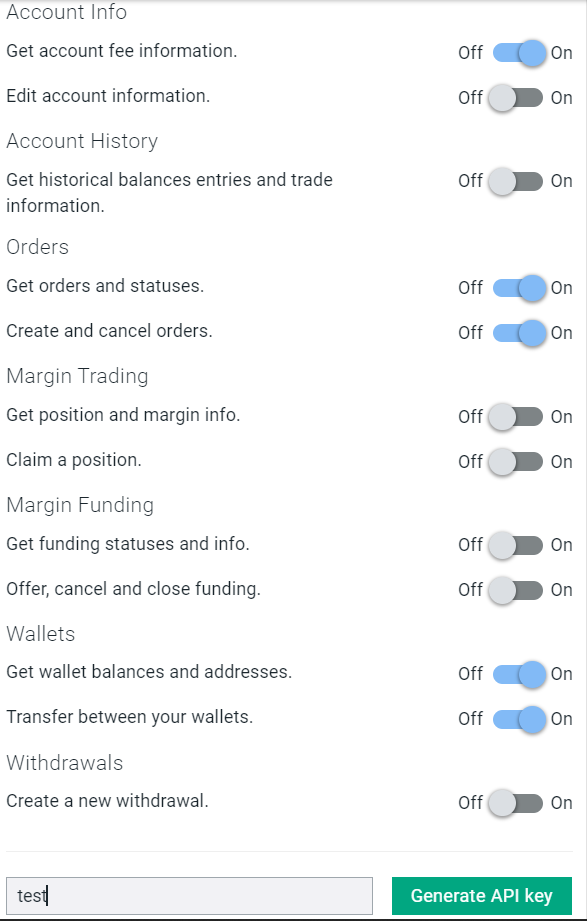
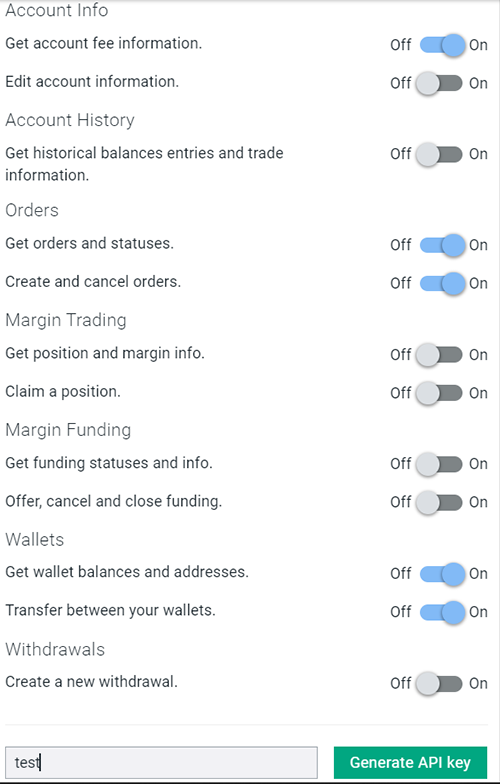
Resize png

diff --git a/views/index.html b/views/index.html
@@ -29,9 +29,9 @@
   <div class="container">
 
     <center>
-    <a href="?lang=en"><img src="en.png" style="width: auto; height: 30px" alt="EN"></a>  
-    <a href="?lang=es"><img src="es.png" style="width: auto; height: 30px" alt="ES"></a>
-    <a href="?lang=ru"><img src="ru.png" style="width: auto; height: 30px" alt="RU"></a>
+    <a href="?lang=en"><img src="en.png" alt="EN"></a>  
+    <a href="?lang=es"><img src="es.png" alt="ES"></a>
+    <a href="?lang=ru"><img src="ru.png" alt="RU"></a>
     </center>
     <br>
     <h1 class="text-center">{{#i18n}}lnpos{{/i18n}}</h1>
@@ -46,11 +46,11 @@
       <br>
       <li>{{#i18n}}step_2{{/i18n}} <a href="https://www.bitfinex.com/sign-up?refcode={{refCode}}" target="_blank">{{#i18n}}link{{/i18n}}</a> {{#i18n}}step_2a{{/i18n}}</li>
       <br>
-      <center><img src="bitfinex_new_key_{{currentLocale}}.png" style="width: 500px; height: auto" alt=""></center>
+      <center><img src="bitfinex_new_key_{{currentLocale}}.png" alt=""></center>
       <br>
       <li>{{#i18n}}step_3{{/i18n}}</li>
       <br>
-      <center><img src="bitfinex_key_permissions_{{currentLocale}}.png" style="width: 500px; height: auto" alt=""></center>
+      <center><img src="bitfinex_key_permissions_{{currentLocale}}.png" alt=""></center>
       <br>
       <li>{{#i18n}}step_4{{/i18n}}</li>
       <br>
